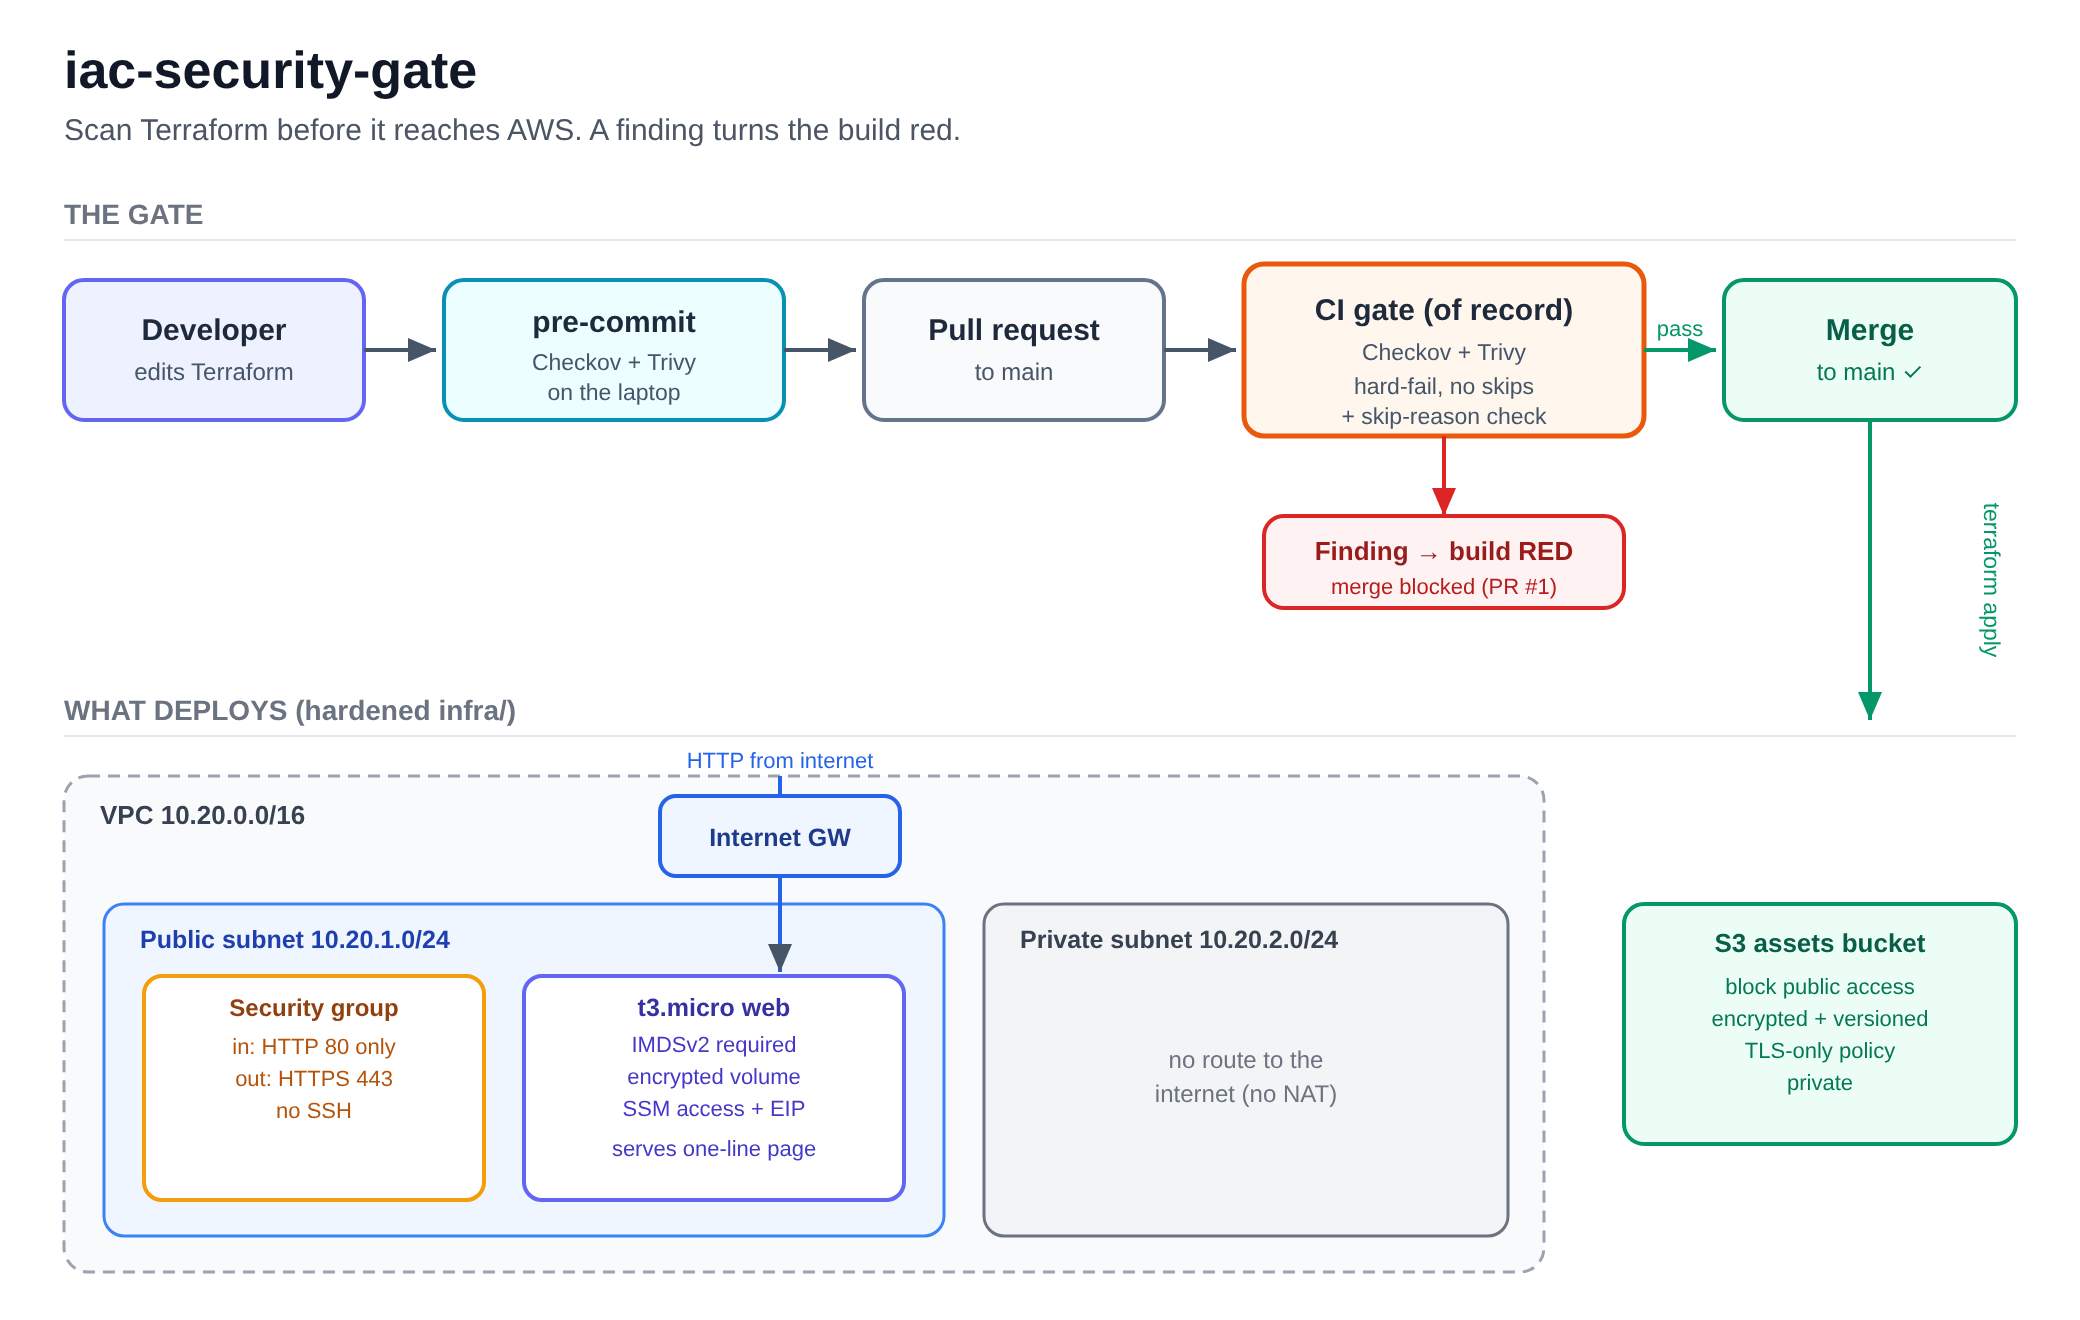
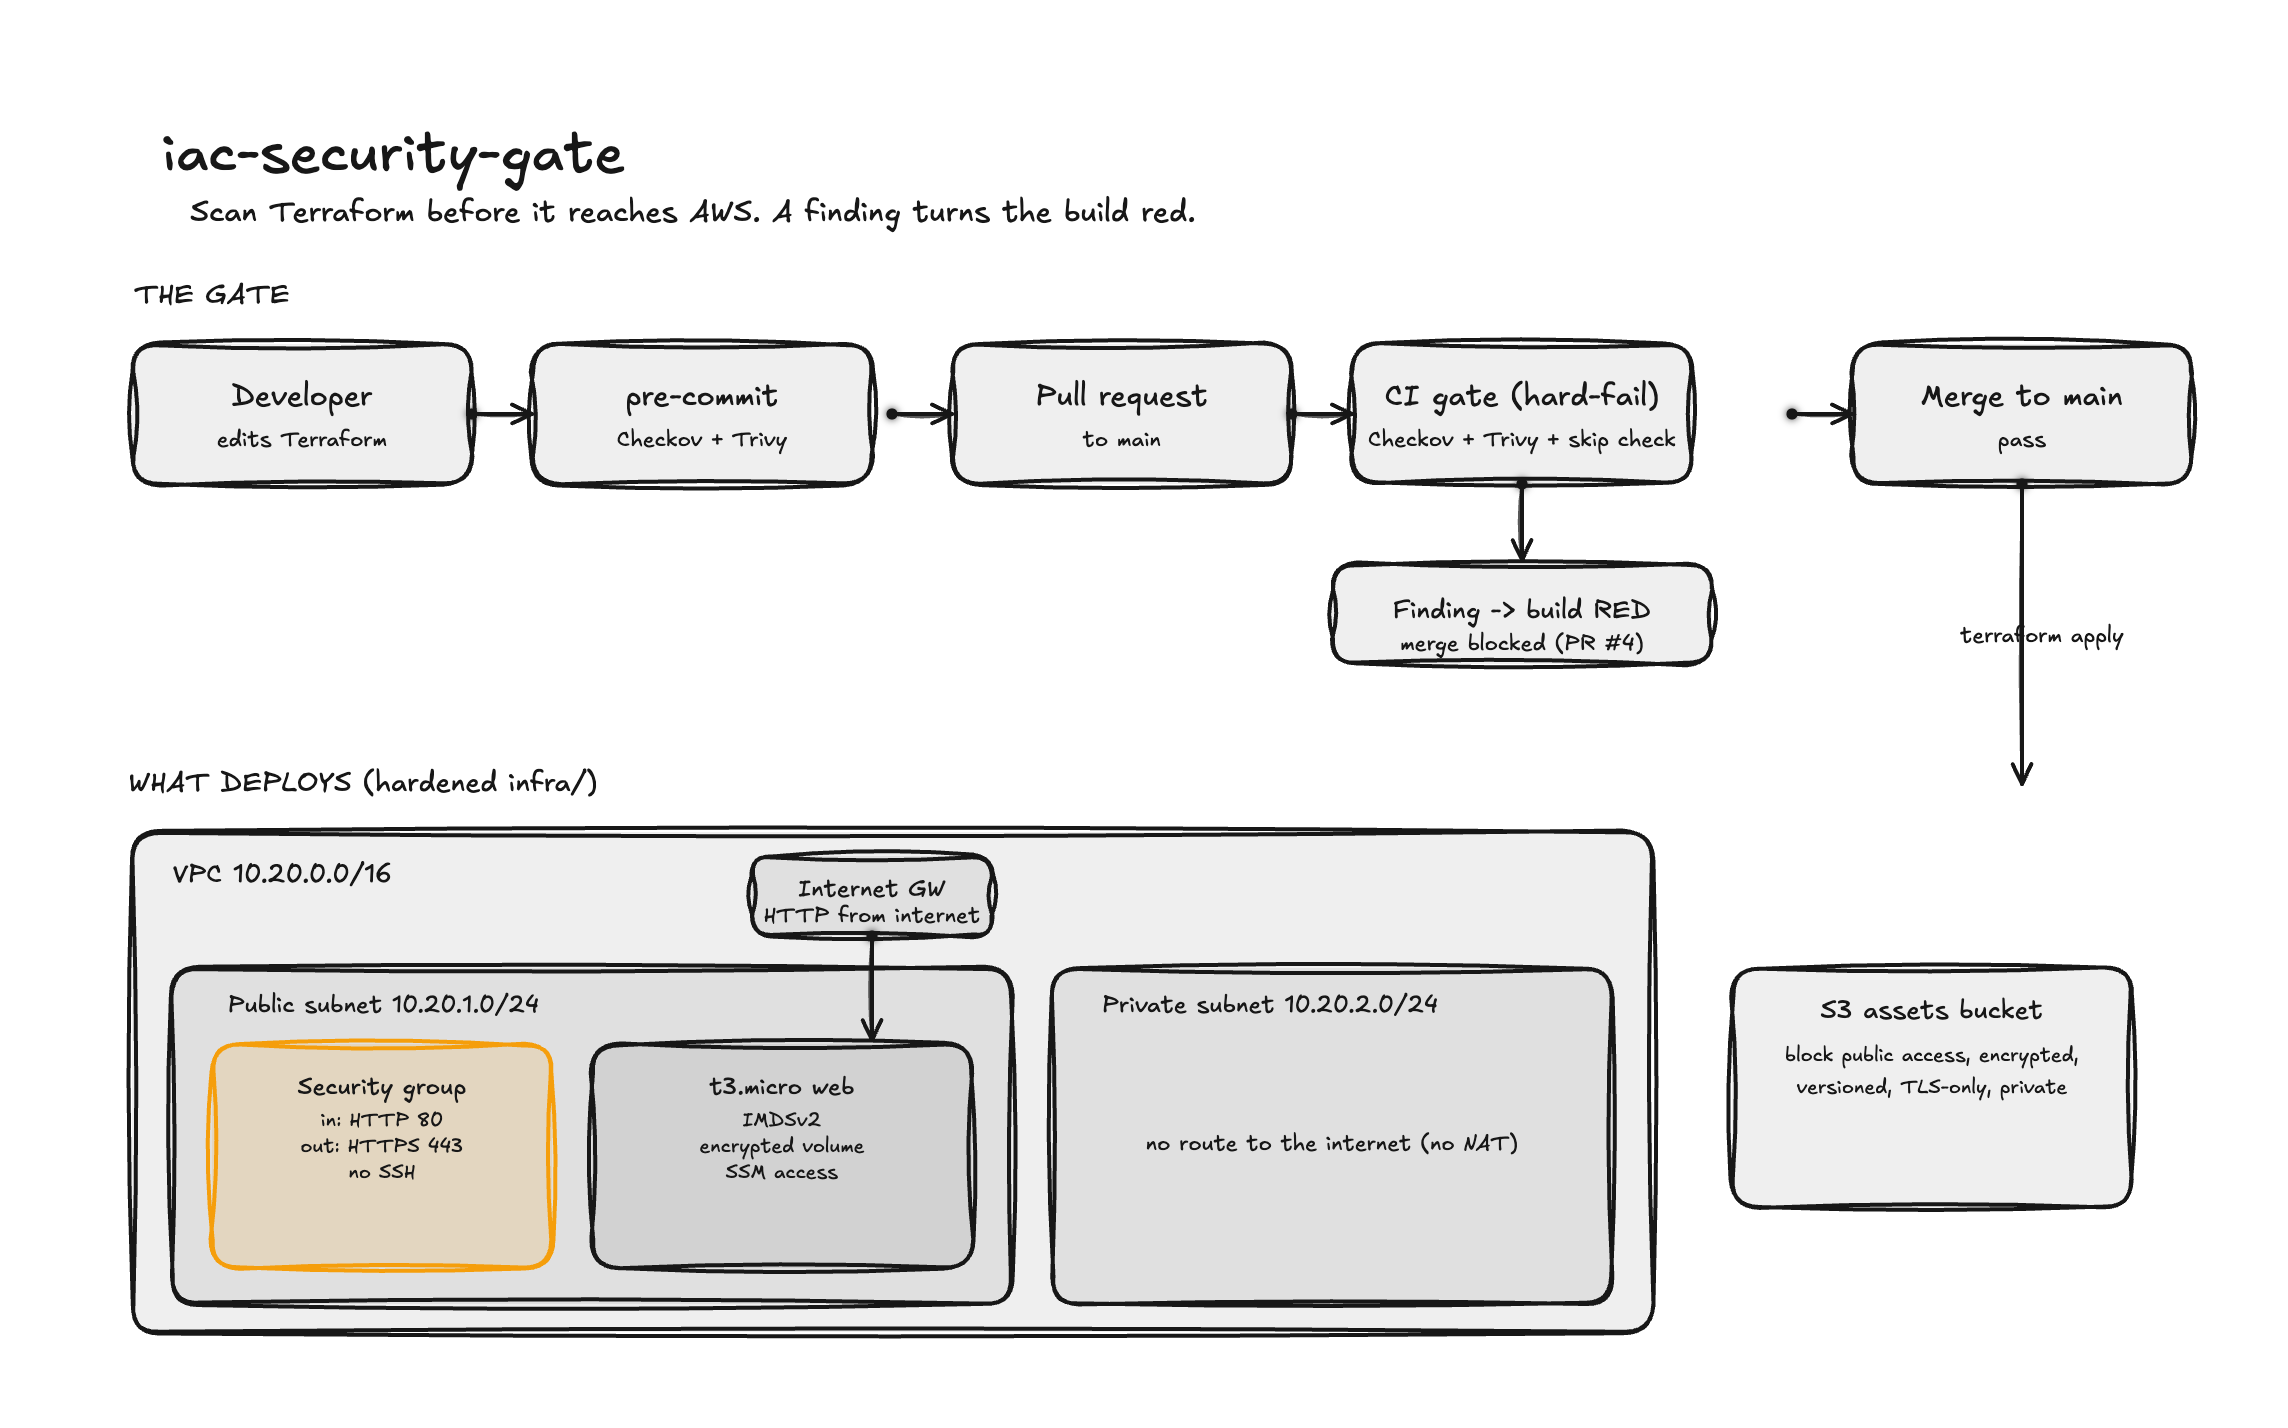
docs: record enforced merge gate and export diagram

diff --git a/README.md b/README.md
@@ -35,7 +35,7 @@ has something real to protect.
 | [#1](https://github.com/Keniolax/iac-security-gate/pull/1) | web server + bucket, **insecure** | 🔴 [failed](https://github.com/Keniolax/iac-security-gate/actions/runs/42086911991) | not merged, left closed as evidence |
 | [#2](https://github.com/Keniolax/iac-security-gate/pull/2) | web server + bucket, **hardened** | 🟢 [passed](https://github.com/Keniolax/iac-security-gate/actions/runs/42087006460) | merged |
 
-PR #1 was blocked at the Checkov step with 21 findings named (SSH open, public
+PR #1 failed at the Checkov step with 21 findings named (SSH open, public
 bucket, IMDSv1, unencrypted volume). It was also refused locally by pre-commit
 before it could be pushed. See [`evidence/`](evidence/).
 
@@ -147,11 +147,12 @@ changes under you is not a gate.
 
 ## Limitations
 
-- **Required-check enforcement is not on yet.** GitHub Free cannot require a CI
-  check to merge on a *private* repo (the rulesets API returns 403). While the
-  repo is private the gate is proven by the red/green PR pair above; once the
-  repo is public, a branch ruleset makes a red check actually block the merge
-  button. Until then, "blocked" means "CI is red," not "merge is disabled."
+- `main` requires the GitHub Actions `gate` check, with no bypass actors.
+  [PR #4](https://github.com/Keniolax/iac-security-gate/pull/4) changed only IMDSv2 to IMDSv1.
+  Terraform validated, Checkov failed, and the merge API refused it because the
+  required check was failing. See [`evidence/merge-blocked.json`](evidence/merge-blocked.json).
+- Live deployment and teardown remain unverified: the local AWS credentials
+  were rejected with `InvalidClientTokenId` on 2026-11-11 UTC.
 - Linux/amd64 is the tested platform. The committed lock file carries hashes for
   all platforms, but Terraform is only exercised on amd64 here.
 
